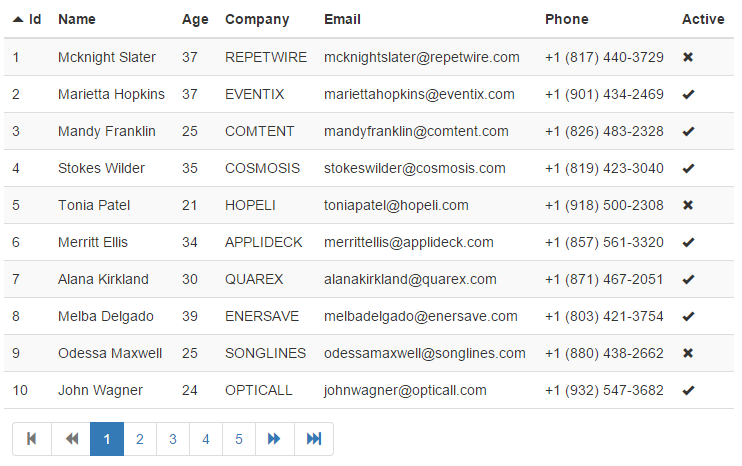
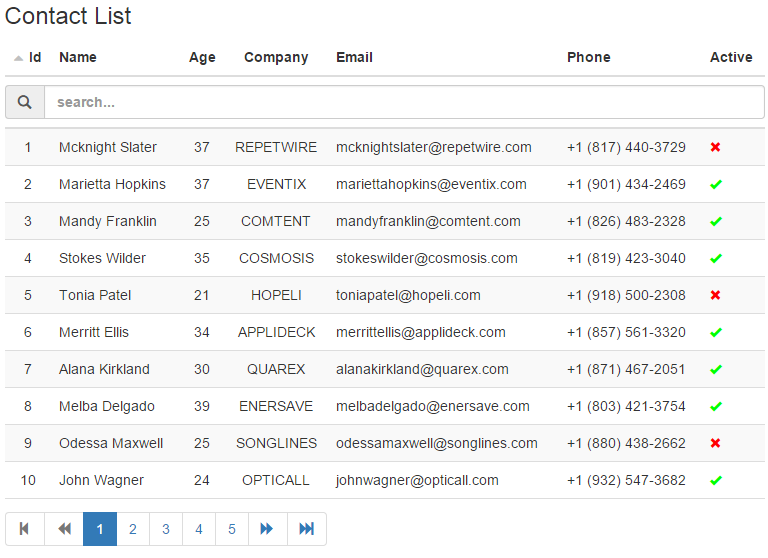
refactoring and bug fixing

diff --git a/wwwroot/scripts/_app/koTable.min.js b/wwwroot/scripts/_app/koTable.min.js
@@ -1,2 +1,2 @@
-ko.bindingHandlers.koTable=new function(){var n=this;n.init=function(n,t,i,r){var o=t(),u=$(n),e=$(n).find("tbody"),y=$.trim(u.attr("id")||u.attr("name")).replace("-","").replace(".","").replace("_",""),p=o.rowsClickable!==null?o.rowsClickable:!1,tt=o.showSearch===!0?!0:!1,f,nt;$(document).ajaxStop(function(){b()});var s,c,h,w,l,it=function(){s=u.find("tr:first th").css("border-bottom-width");c=u.find("tr:first th").css("border-bottom-color");h=u.find("tr:first th").css("border-bottom-style");$.cssHooks.borderColor?(u.find("tr:first th").animate({borderBottomColor:"#FF3300"}),u.find("tr:first th").css({"border-bottom-width":s||"1px","border-bottom-style":h||"solid"}),w=setInterval(function(){l?(u.find("tr:first th").animate({borderBottomColor:c},null,null),l=!1):(u.find("tr:first th").animate({borderBottomColor:"#FF3300"},null,null),l=!0)},500)):u.find("tr:first th").css({"border-bottom-width":s||"1px","border-bottom-color":"#FF3300","border-bottom-style":h||"solid"})},b=function(){$.cssHooks.borderColor?(clearInterval(w),u.find("tr:first th").animate({borderBottomColor:c},null,null,function(){u.find("tr:first th").css({"border-bottom-width":s,"border-bottom-style":h})})):u.find("tr:first th").css({"border-bottom-width":s,"border-bottom-color":c,"border-bottom-style":h})},a=new KnockoutTable(o.pageSize,"id","asc",p,it,b);o.items=o.items||[];a.setItems(o.items);$("table[data-bind*=koTable]").length===1?f=$.extend(r,a):(r[y]={},f=$.extend(r[y],a));f.onInit.call();f.onRowsClickableChanged(function(n){e.css("cursor","default");e.off("click");n&&n.data===!0&&e.length&&(e.css("cursor","pointer"),e.click(f.rowClickedCallback))});e.css("cursor","default");e.off("click");p&&e.css("cursor","pointer");e.length?e.click(function(n){f.rowClickedCallback(n)}):e.length||$.error("The table has no tbody element so row clicking will not be enabled!");var k='<span class="sort-icon glyphicon glyphicon-triangle-bottom" aria-hidden="true" style="margin-right:5px; color:silver; font-size: 10px;"><\/span>',d='<span class="sort-icon glyphicon glyphicon-triangle-top" aria-hidden="true" style="margin-right:5px; color:silver; font-size: 10px;"><\/span>',v=$("[data-sort-property]");v.css("cursor","pointer");var rt=f.sortDirection(),ut=f.sortProperty(),g=$("[data-sort-property='"+ut+"']");if(rt==="desc"?g.prepend(k):g.prepend(d),v.click(function(){v.find(".sort-icon").remove();var i=f.sortProperty(),n=$(this).attr("data-sort-property"),t="asc";i===n?t=f.toggleSortDirection():f.sortProperty(n);t==="desc"?$(this).prepend(k):$(this).prepend(d)}),$.each(u.find(".ko-table-pagination"),function(n,t){$(t).html('<span data-bind="if: !hasRows()">There are no records to show at the moment :(<\/span><ul class="pagination" data-bind="if: paginationRequired()" ><li data-bind="css: { disabled: isFirstPage }"><a href="#" data-bind="click: gotoFirstPage"><span class="glyphicon glyphicon-step-backward" aria-hidden="true"><\/span><\/a><\/li><li data-bind="css: { disabled: isFirstPage }"><a href="#" data-bind="click: gotoPreviousPage"><span class="glyphicon glyphicon-backward" aria-hidden="true"><\/span><\/a><\/li><!-- ko foreach: paginationIndexes() --><li data-bind="css: { active: $data==$parent.currentPage() }"><a href="#" data-bind="click: $parent.gotoPage"><span data-bind="text: ($data+1)"><\/span><\/a><\/li><!-- /ko --><li data-bind="css: { disabled: isLastPage }"><a href="#" data-bind="click: gotoNextPage"><span class="glyphicon glyphicon-forward" aria-hidden="true"><\/span><\/a><\/li><li data-bind="css: { disabled: isLastPage }"><a href="#" data-bind="click: gotoLastPage"><span class="glyphicon glyphicon-fast-forward" aria-hidden="true"><\/span><\/a><\/li><\/ul>').closest("td, th").css({"padding-left":0,"padding-right":0,"text-align":"left"}).attr("colspan",100)}),tt){$.each(u.find(".ko-table-search"),function(n,t){$(t).addClass("input-group").css({width:"100%"}).html('<span class="glyphicon glyphicon-search input-group-addon input-group-sm" style="top: 0;"><\/span><input type="text" class="form-control" placeholder="search..." />').closest("td, th").css({"padding-left":0,"padding-right":0}).attr("colspan",100).closest("tr").attr("data-bind","if: hasRows()")});$(".ko-table-search input").on("input",function(n){clearTimeout(nt);nt=setTimeout(function(){var t=$(n.target).val();f.setRowFilter(t)},250)})}else u.find(".ko-table-search").closest("td, th").attr("colspan",100).hide()}};var KnockoutTable=function(){function n(n,t,i,r,u,f){function k(n,t){var i=n[e.sortProperty()],r=t[e.sortProperty()];return e.sortDirection()==="desc"?i<r?1:i>r?-1:0:i<r?-1:i>r?1:0}var e=this,w=5,h={onWaitStart:"onWaitStart",onWaitEnd:"onWaitEnd",onRowClicked:"onRowClicked",onRowsClickableChanged:"onRowsClickableChanged"},b=ko.observableArray(),c=ko.observable({sortProperty:t,sortDirection:$.trim(i||"asc").toLowerCase()}),l=ko.observable(n&&n>0?n:10),p=ko.observable(r===!0),a=ko.observable(""),s,o,v,y;e.currentPage=ko.observable(0);e.setRowFilter=function(n){$.trim(n.toString()).length>=2?a(n.toString().toLowerCase()):a("")};s=ko.pureComputed({read:function(){if(a()&&a().length){var n=[];return $.each(b(),function(t,i){var r,u,f;for(r in i)if(i.hasOwnProperty(r)&&(u=i[r].toString().toLowerCase(),f=u.indexOf(a())>=0,f)){n.push(i);break}}),n}return b()},write:function(n){b(n)}},e);e.rowClickedCallback=function(n){if(p()){var t=$(n.target).closest("tr"),i=ko.dataFor(t.get(0));y(h.onRowClicked,{tr:t,model:i})}};e.rowsClickable=ko.computed({read:function(){return p()},write:function(n){var i=p(),t=n===!0?!0:!1;n===!1||n||(t=t?!1:!0);i!==t&&(y(h.onRowsClickableChanged,t),p(t))}},e);e.pageSize=ko.computed({read:function(){return l()},write:function(n){var t=l(),i=parseInt(n);t!==i&&(n=Math.max(1,n),l(n))}},e);e.sortProperty=ko.computed({read:function(){return c().sortProperty},write:function(n){var r=c().sortProperty,i=$.trim(n),t;r!==i&&(t=c(),t.sortProperty=i,t.sortDirection="asc",c(t))}},e);e.sortDirection=ko.pureComputed({read:function(){return c().sortDirection},write:function(n){var r=c().sortDirection,i=$.trim(n||"asc").toLowerCase(),t;r!==i&&(t=c(),t.sortDirection=i,c(t))}},e);e.toggleSortDirection=function(){var t=e.sortDirection(),n=t==="asc"?"desc":"asc";return e.sortDirection(n),n};e.clearItems=function(){s([]);e.currentPage(0)};e.setItems=function(n){var t,i;e.clearItems();t=n;typeof n=="function"&&(t=n.apply(null,Array.prototype.slice.call(arguments,1)));t=t||[];ko.mapping&&(i=ko.utils.arrayMap(t,function(n){return ko.mapping.fromJS(n)}),s(i));s(t)};e.gotoNextPage=function(){e.currentPage()<e.pageCount()-1&&e.currentPage(e.currentPage()+1)};e.gotoPreviousPage=function(){e.currentPage()>0&&e.currentPage(e.currentPage()-1)};e.gotoLastPage=function(){e.currentPage(e.pageCount()-1)};e.gotoFirstPage=function(){e.currentPage(0)};e.gotoPage=function(n){var t=n||0;t!==e.currentPage()&&e.currentPage(t)};e.isFirstPage=ko.pureComputed(function(){return e.currentPage()===0});e.isLastPage=ko.pureComputed(function(){return e.currentPage()===e.pageCount()-1});e.pageCount=ko.pureComputed(function(){return Math.ceil(s().length/l()||1)});e.paginationIndexes=ko.pureComputed(function(){for(var u=(w-1)/2,t=Math.min(Math.max(e.currentPage()+u,e.currentPage()+w),e.pageCount()),i=Math.max(0,t-w),r=[],n=0;n<t-i;n++)r.push(i+n);return r});e.pagedItems=ko.pureComputed(function(){var n=l()*e.currentPage(),t=n+l();return s().sort(k).slice(n,t)});e.hasRows=ko.pureComputed(function(){return s()&&s().length>0},e);e.paginationRequired=ko.pureComputed(function(){return e.hasRows()&&e.pageCount()>1},e);e.rowCount=ko.pureComputed(function(){return e.hasRows()?s().length:0});o={};e.onRowClicked=function(n){v(h.onRowClicked,n)};e.onRowsClickableChanged=function(n){v(h.onRowsClickableChanged,n)};e.waitStart=function(){y(h.onWaitStart)};e.waitEnd=function(){y(h.onWaitEnd)};v=function(n,t){typeof o[n]=="undefined"&&(o[n]=[]);var i=!1;o[n]&&o[n].length>0&&$.each(o[n],function(n,r){return r.name&&r.name.length&&t.name&&t.name.length?(i=r===t,!i):(i=r.toString()===t.toString(),!i)});i||o[n].push(t)};y=function(n,t){var r,i,u;if(typeof n=="string"&&(n={type:n}),n.data=t,n.target||(n.target=e),n.type||$.error("Event object missing 'type' property."),o[n.type]instanceof Array)for(r=o[n.type],i=0,u=r.length;i<u;i++)r[i].call(e,n)};e.removeListener=function(n,t){var r,i,u;if(o[n]instanceof Array)for(r=o[n],i=0,u=r.length;i<u;i++)if(r[i]===t){r.splice(i,1);break}};v(h.onWaitStart,u);v(h.onWaitEnd,f)}return n}();
+ko.bindingHandlers.koTable=new function(){var n=this;n.init=function(n,t,i,r){var o=t(),u=$(n),e=$(n).find("tbody"),y=$.trim(u.attr("id")||u.attr("name")).replace("-","").replace(".","").replace("_",""),it=o.pageSize||-1,p=o.rowsClickable!=null?o.rowsClickable:!1,rt=o.showSearch===!0?!0:!1,w=o.allowSort==null?!0:o.allowSort,ut=o.initialSortProperty,ft=o.initialSortDirection==="asc"?"asc":"desc",f,tt;$(document).ajaxStop(function(){k()});var s,c,h,b,l,et=function(){s=u.find("tr:first th").css("border-bottom-width");c=u.find("tr:first th").css("border-bottom-color");h=u.find("tr:first th").css("border-bottom-style");$.cssHooks.borderColor?(u.find("tr:first th").animate({borderBottomColor:"#FF3300"}),u.find("tr:first th").css({"border-bottom-width":s||"1px","border-bottom-style":h||"solid"}),b=setInterval(function(){l?(u.find("tr:first th").animate({borderBottomColor:c},null,null),l=!1):(u.find("tr:first th").animate({borderBottomColor:"#FF3300"},null,null),l=!0)},500)):u.find("tr:first th").css({"border-bottom-width":s||"1px","border-bottom-color":"#FF3300","border-bottom-style":h||"solid"})},k=function(){$.cssHooks.borderColor?(clearInterval(b),u.find("tr:first th").animate({borderBottomColor:c},null,null,function(){u.find("tr:first th").css({"border-bottom-width":s,"border-bottom-style":h})})):u.find("tr:first th").css({"border-bottom-width":s,"border-bottom-color":c,"border-bottom-style":h})},a=new KnockoutTable(it,w,ut,ft,p,et,k);a.setItems([]);$("table[data-bind*=koTable]").length===1?f=$.extend(r,a):(r[y]={},f=$.extend(r[y],a));f.onInit.call();f.onRowsClickableChanged(function(n){e.css("cursor","default");e.off("click");n&&n.data===!0&&e.length&&(e.css("cursor","pointer"),e.click(f.rowClickedCallback))});if(e.css("cursor","default"),e.off("click"),p&&e.css("cursor","pointer"),e.length?e.click(function(n){f.rowClickedCallback(n)}):e.length||$.error("The table has no tbody element so row clicking will not be enabled!"),w){var d='<span class="sort-icon glyphicon glyphicon-triangle-bottom" aria-hidden="true" style="margin-right:5px; color:silver; font-size: 10px;"><\/span>',g='<span class="sort-icon glyphicon glyphicon-triangle-top" aria-hidden="true" style="margin-right:5px; color:silver; font-size: 10px;"><\/span>',v=$("[data-sort-property]");v.css("cursor","pointer");var ot=f.sortDirection(),st=f.sortProperty(),nt=$("[data-sort-property='"+st+"']");ot==="desc"?nt.prepend(d):nt.prepend(g);v.click(function(){v.find(".sort-icon").remove();var i=f.sortProperty(),n=$(this).attr("data-sort-property"),t="asc";i===n?t=f.toggleSortDirection():f.sortProperty(n);t==="desc"?$(this).prepend(d):$(this).prepend(g)})}$.each(u.find(".ko-table-pagination"),function(n,t){$(t).html('<span data-bind="if: !hasRows()">There are no records to show at the moment :(<\/span><ul class="pagination" data-bind="if: paginationRequired()" ><li data-bind="css: { disabled: isFirstPage }"><a href="#" data-bind="click: gotoFirstPage"><span class="glyphicon glyphicon-step-backward" aria-hidden="true"><\/span><\/a><\/li><li data-bind="css: { disabled: isFirstPage }"><a href="#" data-bind="click: gotoPreviousPage"><span class="glyphicon glyphicon-backward" aria-hidden="true"><\/span><\/a><\/li><!-- ko foreach: paginationIndexes() --><li data-bind="css: { active: $data==$parent.currentPage() }"><a href="#" data-bind="click: $parent.gotoPage"><span data-bind="text: ($data+1)"><\/span><\/a><\/li><!-- /ko --><li data-bind="css: { disabled: isLastPage }"><a href="#" data-bind="click: gotoNextPage"><span class="glyphicon glyphicon-forward" aria-hidden="true"><\/span><\/a><\/li><li data-bind="css: { disabled: isLastPage }"><a href="#" data-bind="click: gotoLastPage"><span class="glyphicon glyphicon-fast-forward" aria-hidden="true"><\/span><\/a><\/li><\/ul>').closest("td, th").css({"padding-left":0,"padding-right":0,"text-align":"left"}).attr("colspan",100)});rt?$.each(u.find(".ko-table-search"),function(n,t){$(t).addClass("input-group").css({width:"100%"});$(t).html('<span class="glyphicon glyphicon-search input-group-addon input-group-sm" style="top: 0;"><\/span><input type="text" class="form-control" placeholder="search..." value="" />');$(t).find("input[type='text']").on("input",function(n){clearTimeout(tt);tt=setTimeout(function(){var t=$(n.target).val();console.log(t);f.setRowFilter(t)},250)});$(t).closest("td, th").css({"padding-left":0,"padding-right":0}).attr("colspan",100).closest("tr")}):u.find(".ko-table-search").closest("td, th").attr("colspan",100).hide()}};var KnockoutTable=function(){function n(n,t,i,r,u,f,e){function d(n,t){var i=n[o.sortProperty()],r=t[o.sortProperty()];return o.sortDirection()==="desc"?i<r?1:i>r?-1:0:i<r?-1:i>r?1:0}var o=this,b=5,l={onWaitStart:"onWaitStart",onWaitEnd:"onWaitEnd",onRowClicked:"onRowClicked",onRowsClickableChanged:"onRowsClickableChanged"},k=ko.observableArray(),a=ko.observable({allowSort:t,sortProperty:i,sortDirection:$.trim(r||"asc").toLowerCase()}),c=ko.observable(n&&n>0?n:-1),w=ko.observable(u===!0),v=ko.observable(""),h,s,y,p;o.currentPage=ko.observable(0);o.setRowFilter=function(n){$.trim(n.toString()).length>=2?v(n.toString().toLowerCase()):v("")};h=ko.pureComputed({read:function(){if(v()&&v().length){var n=[];return $.each(k(),function(t,i){var r,u,f;for(r in i)if(i.hasOwnProperty(r)&&(u=i[r].toString().toLowerCase(),f=u.indexOf(v())>=0,f)){n.push(i);break}}),n}return k()},write:function(n){k(n)}},o);o.rowClickedCallback=function(n){if(w()){var t=$(n.target).closest("tr"),i=ko.dataFor(t.get(0));p(l.onRowClicked,{tr:t,model:i})}};o.rowsClickable=ko.computed({read:function(){return w()},write:function(n){var i=w(),t=n===!0?!0:!1;n===!1||n||(t=t?!1:!0);i!==t&&(p(l.onRowsClickableChanged,t),w(t))}},o);o.pageSize=ko.computed({read:function(){return c()},write:function(n){var t=c(),i=parseInt(n);t!==i&&(n=Math.max(1,n),c(n))}},o);o.sortProperty=ko.computed({read:function(){return a().sortProperty},write:function(n){var r=a().sortProperty,i=$.trim(n),t;r!==i&&(t=a(),t.sortProperty=i,t.sortDirection="asc",a(t))}},o);o.sortDirection=ko.pureComputed({read:function(){return a().sortDirection},write:function(n){var r=a().sortDirection,i=$.trim(n||"asc").toLowerCase(),t;r!==i&&(t=a(),t.sortDirection=i,a(t))}},o);o.toggleSortDirection=function(){var t=o.sortDirection(),n=t==="asc"?"desc":"asc";return o.sortDirection(n),n};o.clearItems=function(){h([]);o.currentPage(0)};o.setItems=function(n){var t,i;o.clearItems();t=n;typeof n=="function"&&(t=n.apply(null,Array.prototype.slice.call(arguments,1)));t=t||[];ko.mapping&&(i=ko.utils.arrayMap(t,function(n){return ko.mapping.fromJS(n)}),h(i));h(t)};o.gotoNextPage=function(){o.currentPage()<o.pageCount()-1&&o.currentPage(o.currentPage()+1)};o.gotoPreviousPage=function(){o.currentPage()>0&&o.currentPage(o.currentPage()-1)};o.gotoLastPage=function(){o.currentPage(o.pageCount()-1)};o.gotoFirstPage=function(){o.currentPage(0)};o.gotoPage=function(n){var t=n||0;t!==o.currentPage()&&o.currentPage(t)};o.isFirstPage=ko.pureComputed(function(){return o.currentPage()===0});o.isLastPage=ko.pureComputed(function(){return o.currentPage()===o.pageCount()-1});o.pageCount=ko.pureComputed(function(){return Math.ceil(c()>0?h().length/c()||1:1)});o.paginationIndexes=ko.pureComputed(function(){for(var u=(b-1)/2,t=Math.min(Math.max(o.currentPage()+u,o.currentPage()+b),o.pageCount()),i=Math.max(0,t-b),r=[],n=0;n<t-i;n++)r.push(i+n);return r});o.pagedItems=ko.pureComputed(function(){var n=c()>0?c()*o.currentPage():0,t=c()>0?n+c():o.rowCount();return o.sortProperty()?h().sort(d).slice(n,t):h().slice(n,t)});o.hasRows=ko.pureComputed(function(){return h()&&h().length>0},o);o.paginationRequired=ko.pureComputed(function(){return o.hasRows()&&o.pageCount()>1},o);o.rowCount=ko.pureComputed(function(){return o.hasRows()?h().length:0});s={};o.onRowClicked=function(n){y(l.onRowClicked,n)};o.onRowsClickableChanged=function(n){y(l.onRowsClickableChanged,n)};o.waitStart=function(){p(l.onWaitStart)};o.waitEnd=function(){p(l.onWaitEnd)};y=function(n,t){typeof s[n]=="undefined"&&(s[n]=[]);var i=!1;s[n]&&s[n].length>0&&$.each(s[n],function(n,r){return r.name&&r.name.length&&t.name&&t.name.length?(i=r===t,!i):(i=r.toString()===t.toString(),!i)});i||s[n].push(t)};p=function(n,t){var r,i,u;if(typeof n=="string"&&(n={type:n}),n.data=t,n.target||(n.target=o),n.type||$.error("Event object missing 'type' property."),s[n.type]instanceof Array)for(r=s[n.type],i=0,u=r.length;i<u;i++)r[i].call(o,n)};o.removeListener=function(n,t){var r,i,u;if(s[n]instanceof Array)for(r=s[n],i=0,u=r.length;i<u;i++)if(r[i]===t){r.splice(i,1);break}};y(l.onWaitStart,f);y(l.onWaitEnd,e)}return n}();
 //# sourceMappingURL=koTable.min.js.map

diff --git a/wwwroot/scripts/_app/koTable.js b/wwwroot/scripts/_app/koTable.js
@@ -20,7 +20,10 @@ ko.bindingHandlers.koTable = new (function() {
         pageSize: 10, 
         items: [],
         showSearch: false, 
-        rowsClickable: true
+        rowsClickable: true,
+        allowSort: true,
+        initialSortProperty: 'id',
+        initialSortDirection: 'desc'
         }
         */
         var params = valueAccessor();
@@ -29,8 +32,12 @@ ko.bindingHandlers.koTable = new (function() {
         var tbody = $(tableElement).find("tbody");
         var tableId = $.trim((table.attr("id") || table.attr("name"))).replace("-", "").replace(".", "").replace("_", "");
 
-        var rowsClickable = params.rowsClickable !== null ? params.rowsClickable : false;
+        var pageSize = params.pageSize || -1;
+        var rowsClickable = params.rowsClickable != null ? params.rowsClickable : false;
         var showSearch = params.showSearch === true ? true : false;
+        var allowSort = params.allowSort == null ? true : params.allowSort;
+        var initialSortProperty = params.initialSortProperty;
+        var initialSortDirection = params.initialSortDirection === "asc" ? "asc" : "desc";
 
         //$(document).ajaxStart(function () {
         //    waitStartCallback();
@@ -43,7 +50,6 @@ ko.bindingHandlers.koTable = new (function() {
         var firstRowBottomWidth, firstRowBottomColor, firstRowBottomStyle, firstRowBottomInterval, altColor;
 
         var waitStartCallback = function() {
-
             firstRowBottomWidth = table.find("tr:first th").css("border-bottom-width");
             firstRowBottomColor = table.find("tr:first th").css("border-bottom-color");
             firstRowBottomStyle = table.find("tr:first th").css("border-bottom-style");
@@ -77,9 +83,8 @@ ko.bindingHandlers.koTable = new (function() {
             }
         };
 
-        var kt = new KnockoutTable(params.pageSize, "id", "asc", rowsClickable, waitStartCallback, waitEndCallback);
-        params.items = params.items || [];
-        kt.setItems(params.items);
+        var kt = new KnockoutTable(pageSize, allowSort, initialSortProperty, initialSortDirection, rowsClickable, waitStartCallback, waitEndCallback);
+        kt.setItems([]);
 
         var tableViewModel;
         if ($("table[data-bind*=koTable]").length === 1) {
@@ -116,42 +121,44 @@ ko.bindingHandlers.koTable = new (function() {
             $.error("The table has no tbody element so row clicking will not be enabled!");
         }
 
-        var descendingIconHtml = "<span class=\"sort-icon glyphicon glyphicon-triangle-bottom\" aria-hidden=\"true\" style=\"margin-right:5px; color:silver; font-size: 10px;\"></span>";
-        var ascendingIconHtml = "<span class=\"sort-icon glyphicon glyphicon-triangle-top\" aria-hidden=\"true\" style=\"margin-right:5px; color:silver; font-size: 10px;\"></span>";
+        if (allowSort) {
+            var descendingIconHtml = "<span class=\"sort-icon glyphicon glyphicon-triangle-bottom\" aria-hidden=\"true\" style=\"margin-right:5px; color:silver; font-size: 10px;\"></span>";
+            var ascendingIconHtml = "<span class=\"sort-icon glyphicon glyphicon-triangle-top\" aria-hidden=\"true\" style=\"margin-right:5px; color:silver; font-size: 10px;\"></span>";
 
-        var sortableHeadings = $("[data-sort-property]");
-        sortableHeadings.css("cursor", "pointer");
+            var sortableHeadings = $("[data-sort-property]");
+            sortableHeadings.css("cursor", "pointer");
 
-        var currentSortDir = tableViewModel.sortDirection();
-        var currentSortProp = tableViewModel.sortProperty();
-        var currentSortHeading = $("[data-sort-property='" + currentSortProp + "']");
+            var currentSortDir = tableViewModel.sortDirection();
+            var currentSortProp = tableViewModel.sortProperty();
+            var currentSortHeading = $("[data-sort-property='" + currentSortProp + "']");
 
-        if (currentSortDir === "desc") {
-            currentSortHeading.prepend(descendingIconHtml);
-        } else {
-            currentSortHeading.prepend(ascendingIconHtml);
+            if (currentSortDir === "desc") {
+                currentSortHeading.prepend(descendingIconHtml);
+            } else {
+                currentSortHeading.prepend(ascendingIconHtml);
+            }
+
+            sortableHeadings.click(function() {
+                sortableHeadings.find(".sort-icon").remove();
+
+                var sortProp = tableViewModel.sortProperty();
+                var newSortProp = $(this).attr("data-sort-property");
+                var newSortDir = "asc";
+
+                if (sortProp === newSortProp) {
+                    newSortDir = tableViewModel.toggleSortDirection();
+                } else {
+                    tableViewModel.sortProperty(newSortProp);
+                }
+
+                if (newSortDir === "desc") {
+                    $(this).prepend(descendingIconHtml);
+                } else {
+                    $(this).prepend(ascendingIconHtml);
+                }
+
+            });
         }
-
-        sortableHeadings.click(function() {
-            sortableHeadings.find(".sort-icon").remove();
-
-            var sortProp = tableViewModel.sortProperty();
-            var newSortProp = $(this).attr("data-sort-property");
-            var newSortDir = "asc";
-
-            if (sortProp === newSortProp) {
-                newSortDir = tableViewModel.toggleSortDirection();
-            } else {
-                tableViewModel.sortProperty(newSortProp);
-            }
-
-            if (newSortDir === "desc") {
-                $(this).prepend(descendingIconHtml);
-            } else {
-                $(this).prepend(ascendingIconHtml);
-            }
-
-        });
 
         $.each(table.find(".ko-table-pagination"), function(i, o) {
             $(o).html("<span data-bind=\"if: !hasRows()\">There are no records to show at the moment :(</span><ul class=\"pagination\" data-bind=\"if: paginationRequired()\" >" +
@@ -167,21 +174,23 @@ ko.bindingHandlers.koTable = new (function() {
         });
 
         if (showSearch) {
+
             var searchInputTimeout;
 
             $.each(table.find(".ko-table-search"), function(i, o) {
-                $(o).addClass("input-group").css({ "width": "100%" }).html("<span class=\"glyphicon glyphicon-search input-group-addon input-group-sm\" style=\"top: 0;\"></span>" +
-                        "<input type=\"text\" class=\"form-control\" placeholder=\"search...\" />"
-                    )
-                    .closest("td, th").css({ 'padding-left': 0, 'padding-right': 0 }).attr("colspan", 100).closest("tr").attr("data-bind", "if: hasRows()");
-            });
-
-            $(".ko-table-search input").on("input", function(evt) {
-                clearTimeout(searchInputTimeout);
-                searchInputTimeout = setTimeout(function() {
-                    var searchText = $(evt.target).val();
-                    tableViewModel.setRowFilter(searchText);
-                }, 250);
+                $(o).addClass("input-group").css({ "width": "100%" });
+                $(o).html("<span class=\"glyphicon glyphicon-search input-group-addon input-group-sm\" style=\"top: 0;\"></span>" +
+                    "<input type=\"text\" class=\"form-control\" placeholder=\"search...\" value=\"\" />"
+                );
+                $(o).find("input[type='text']").on("input", function(evt) {
+                    clearTimeout(searchInputTimeout);
+                    searchInputTimeout = setTimeout(function() {
+                        var searchText = $(evt.target).val();
+                        console.log(searchText);
+                        tableViewModel.setRowFilter(searchText);
+                    }, 250);
+                });
+                $(o).closest("td, th").css({ 'padding-left': 0, 'padding-right': 0 }).attr("colspan", 100).closest("tr"); //.attr("data-bind", "visible: hasRows()");
             });
         } else {
             table.find(".ko-table-search").closest("td, th").attr("colspan", 100).hide();
@@ -192,10 +201,9 @@ ko.bindingHandlers.koTable = new (function() {
 
 var KnockoutTable = (function() {
 
-    function knockoutTable(pageSize, initialSortProperty, initialSortDirection, rowsClickable, onWaitStartCallback, onWaitEndCallback) {
+    function knockoutTable(pageSize, allowSort, initialSortProperty, initialSortDirection, rowsClickable, onWaitStartCallback, onWaitEndCallback) {
         var self = this;
         var maxPagesToShowInPaginator = 5;
-        var defaultPageSize = 10;
         var eventTypes = {
             onWaitStart: "onWaitStart",
             onWaitEnd: "onWaitEnd",
@@ -204,8 +212,8 @@ var KnockoutTable = (function() {
         };
 
         var _items = ko.observableArray();
-        var internalSortParams = ko.observable({ 'sortProperty': initialSortProperty, 'sortDirection': $.trim((initialSortDirection || "asc")).toLowerCase() });
-        var internalPageSize = ko.observable(pageSize && pageSize > 0 ? pageSize : defaultPageSize);
+        var internalSortParams = ko.observable({ 'allowSort': allowSort, 'sortProperty': initialSortProperty, 'sortDirection': $.trim((initialSortDirection || "asc")).toLowerCase() });
+        var internalPageSize = ko.observable(pageSize && pageSize > 0 ? pageSize : -1);
         var internalRowsClickable = ko.observable(rowsClickable === true);
         var internalRowFilter = ko.observable("");
 
@@ -393,7 +401,7 @@ var KnockoutTable = (function() {
         });
 
         self.pageCount = ko.pureComputed(function() {
-            return Math.ceil((items().length / internalPageSize()) || 1);
+            return Math.ceil(internalPageSize() > 0 ? (items().length / internalPageSize()) || 1 : 1);
         });
 
         self.paginationIndexes = ko.pureComputed(function() {
@@ -411,11 +419,14 @@ var KnockoutTable = (function() {
         });
 
         self.pagedItems = ko.pureComputed(function() {
-            var first = internalPageSize() * self.currentPage();
-            var last = first + internalPageSize();
+            var first = internalPageSize() > 0 ? internalPageSize() * self.currentPage() : 0;
+            var last = internalPageSize() > 0 ? first + internalPageSize() : self.rowCount();
 
-            var pagedItems = items().sort(objectSortComparer).slice(first, last);
-            return pagedItems;
+            if (self.sortProperty()) {
+                return items().sort(objectSortComparer).slice(first, last);
+            } else {
+                return items().slice(first, last);
+            }
         });
 
         self.hasRows = ko.pureComputed(function() {

diff --git a/wwwroot/example.html b/wwwroot/example.html
@@ -4,12 +4,11 @@
     <meta name="viewport" content="width=device-width, initial-scale=1">
     <title>kn-table</title>
     <link href="http://cdnjs.cloudflare.com/ajax/libs/twitter-bootstrap/3.3.4/css/bootstrap.min.css" rel="stylesheet" type="text/css" />
-    <link href="http://cdnjs.cloudflare.com/ajax/libs/font-awesome/4.3.0/css/font-awesome.min.css" rel="stylesheet" type="text/css" />
     <link href="http://cdnjs.cloudflare.com/ajax/libs/toastr.js/2.1.1/toastr.min.css" rel="stylesheet" type="text/css" />
     <link href="content/example.css" rel="stylesheet" type="text/css" />
 </head>
 <body>
-    <div class="container">
+    <div class="container" style="max-width: 790px;">
         <h3>Contact List</h3>
 
         <table>
@@ -18,13 +17,12 @@
             </tr>
         </table>
 
-        <table id="table-1" class="table table-striped table-hover" data-bind="koTable: { pageSize: 10, showSearch: true, rowsClickable: true }">
+        <table id="table-1" class="table table-striped table-hover" data-bind="koTable: { pageSize: 10, showSearch: true, rowsClickable: true, initialSortProperty: 'id', initialSortDirection: 'desc'  }">
             <thead>
                 <tr>
                     <th data-sort-property="id">Id</th>
                     <th data-sort-property="name">Name</th>
                     <th data-sort-property="age">Age</th>
-                    <th data-sort-property="gender">Gender</th>
                     <th data-sort-property="company">Company</th>
                     <th data-sort-property="email">Email</th>
                     <th data-sort-property="phone">Phone</th>
@@ -41,7 +39,6 @@
                     <td><span data-bind="text: id"></span></td>
                     <td><span data-bind="text: name"></span></td>
                     <td><span data-bind="text: age"></span></td>
-                    <td><i class="fa" data-bind="css: gender == 'male' ? 'fa-mars' : 'fa-venus' "></i></td>
                     <td><span data-bind="text: company"></span></td>
                     <td><span data-bind="text: email"></span></td>
                     <td><span data-bind="text: phone"></span></td>
@@ -70,6 +67,10 @@
                     <div class="form-group">
                         <label>Row Count: </label>
                         <p class="form-control-static" data-bind="text: rowCount"></p>
+                    </div>
+                    <div class="form-group">
+                        <label>Sort: </label>
+                        <p class="form-control-static" data-bind="text: sortProperty() + ' ' + sortDirection()"></p>
                     </div>
                     <div class="checkbox">
                         <label>

diff --git a/wwwroot/scripts/_app/viewModel.js b/wwwroot/scripts/_app/viewModel.js
@@ -4,31 +4,19 @@ var ViewModel = (function () {
     var self = this;
 
     self.loadAllData = function () {
-        // signal that we are about to
-        // do something that might take a while.
-        // this will change the bottom border color
-        // of the first row to orangey.
+        // signal start of something that might take a while
         self.waitStart();
 
-        $.ajax({
-            url: "api/Data",
-            type: "GET",
-            dataType: "json",
-            success: function (data) {
-                self.setItems(data);
+        $.getJSON("api/Data", null, function (data) {
+            // load the data we received
+            self.setItems(data);
 
-                // signal that the potentially long running thing has finished.
-                // this will change the bottom border color
-                // of the first row to back to it's original color.
-                self.waitEnd();
-            }
+            // signal end
+            self.waitEnd();
         });
-    };
+    }
 
-    /*
-    onInit is automcatically invoked when the koTable binding 
-    has finished configuraing itself.
-    */
+    // onInit is automcatically invoked when koTable is loaded.
     self.onInit = function () {
         sw.elapsed('onInit');
 

diff --git a/wwwroot/content/example.css b/wwwroot/content/example.css
@@ -54,10 +54,10 @@ tr th:nth-child(4) {
     text-align: center;
 }
 
-tr td:nth-child(8) {
+tr td:nth-child(7) {
     text-align: center;
 }
 
-tr th:nth-child(8) {
+tr th:nth-child(7) {
     text-align: center;
 }

diff --git a/wwwroot/App_Code/PersonRepository.cs b/wwwroot/App_Code/PersonRepository.cs
@@ -17,7 +17,7 @@ public class PersonRepository : IRepository<Person>
         var jsonFile = HttpContext.Current.Server.MapPath("~/_dataSource.json");
         var jsonText = File.ReadAllText(jsonFile);
 
-        var people = JsonConvert.DeserializeObject<IEnumerable<Person>>(jsonText);
+        var people = JsonConvert.DeserializeObject<IEnumerable<Person>>(jsonText).OrderBy(p => p.id);
 
         _allPeople.AddRange(people);
     }

diff --git a/README.md b/README.md
@@ -55,25 +55,60 @@ Notice also the ***ko-table-pagination*** class on the div in the table footer. 
 Since the koTable binding extends the viewModel object all you really need to do to make the magic happen is to call self.setItems and pass your object array.
 
 ```javascript
-var viewModel = function () {
+var ViewModel = (function () {
     var self = this;
 
-    self.loadAllData = function getData() {
-        $.ajax({
-            url: 'api/Data',
-            type: 'GET',
-            dataType: 'json',
-            success: function (data) {
-                self.setItems(data);
-            }
+    self.loadAllData = function () {
+        // signal start of something that might take a while
+        self.waitStart();
+
+        $.getJSON("api/Data", null, function (data) {
+            // load the data we received
+            self.setItems(data);
+
+            // signal end
+            self.waitEnd();
+        });
+    }
+
+    // onInit is automcatically invoked when koTable is loaded.
+    self.onInit = function () {
+        sw.elapsed('onInit');
+
+        // load the data form the server
+        self.loadAllData();
+
+        // hook up handler for when a row is clicked
+        self.onRowClicked(function (evt) {
+            console.log(evt);
         });
     };
-
-    self.loadAllData();
-};
+});
 
 $(document).ready(function () {
     ko.applyBindings(new viewModel());
 });
 
 ```
+## Options ##
+
+These are the options you can pass to the koTable binding:
+
+- **pageSize**: the number of rows per page. Default is all (*i.e.* no paging).
+- **showSearch**: show a search box in place of any ***ko-table-search*** classes. Default is false.
+- **rowsClickable**: make rows clickable and raise an event when they are. Default: true.
+- **allowSort**: allows the grid to be sorted by column.
+- **initialSortProperty**: the name of the property to initially sort by.
+- **initialSortDirection**: the initial sort directon. Default is 'asc'.
+
+## Requirements ##
+
+You'll need to reference the following things in your web page: 
+
+- [jquery](https://github.com/jquery/jquery)
+- [knockoutjs](https://github.com/knockout/knockout)
+
+### Optional (kind of) ###
+- [jquery.color](https://github.com/jquery/jquery-color): not strictly *required* but it'll look nicer if you do.
+- [bootstrap](https://github.com/twbs/bootstrap): also, not strictly required but bootstrap tables look nice!
+
